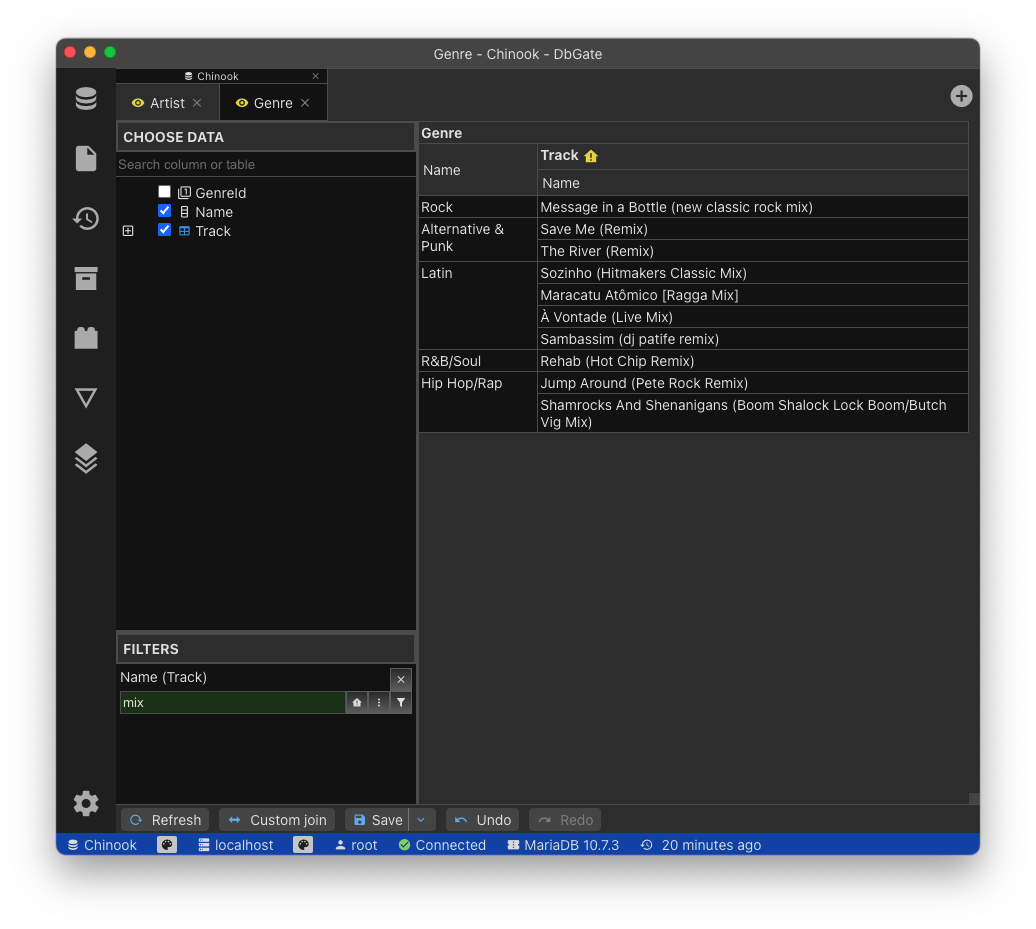
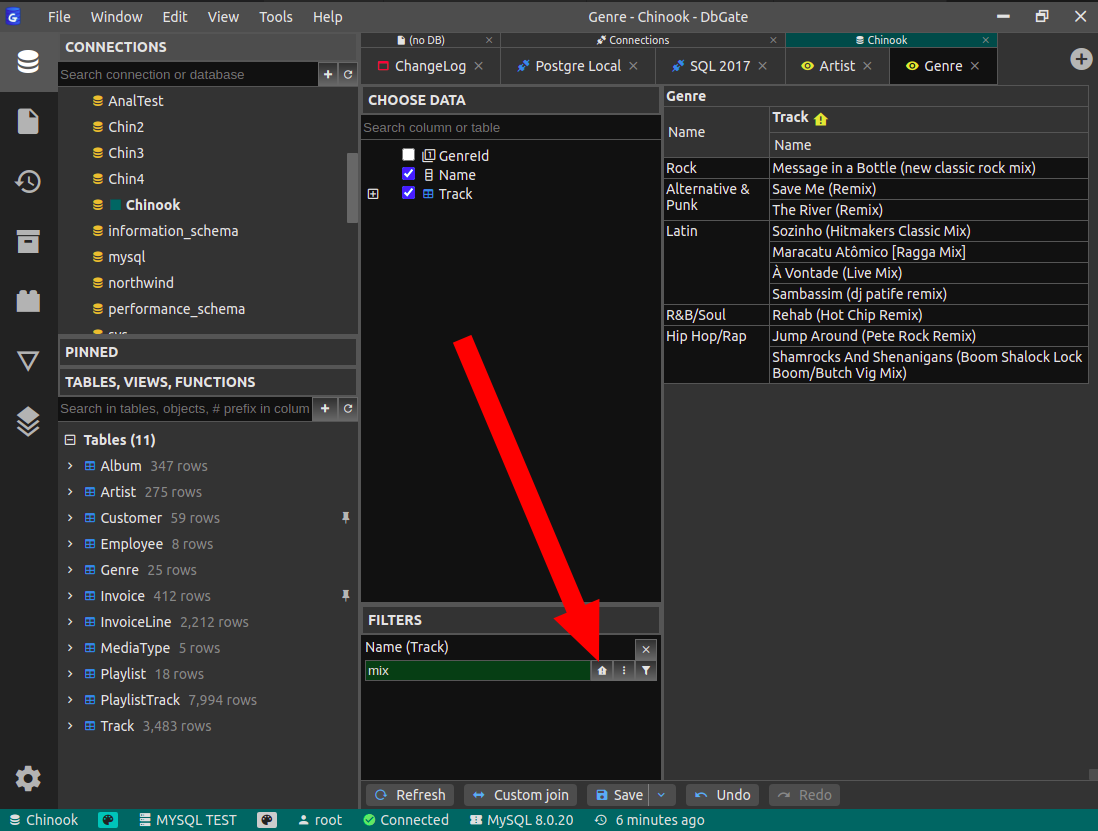
perspective docs

diff --git a/_docs/perspectives.md b/_docs/perspectives.md
@@ -17,6 +17,9 @@ Perspectives can easily join data together, and show groups.
 Perspectives could be created from SQL tables and views (MongoDB collections are not yet supported, but this support is planned).
 Use context menu of table/view, "Open perspective".
 
+<img src='/assets/docs/perspective-create.png' />
+
+DbGate opens simple perspective, with only one column displayed. This column is choosed by heuristic algorithm, to be the best representation of the whole row.
 # Customize perspective
 You could define, which columns are available in view. Also you could add referenced data to view. Use expand button for browsing references tree.
 
